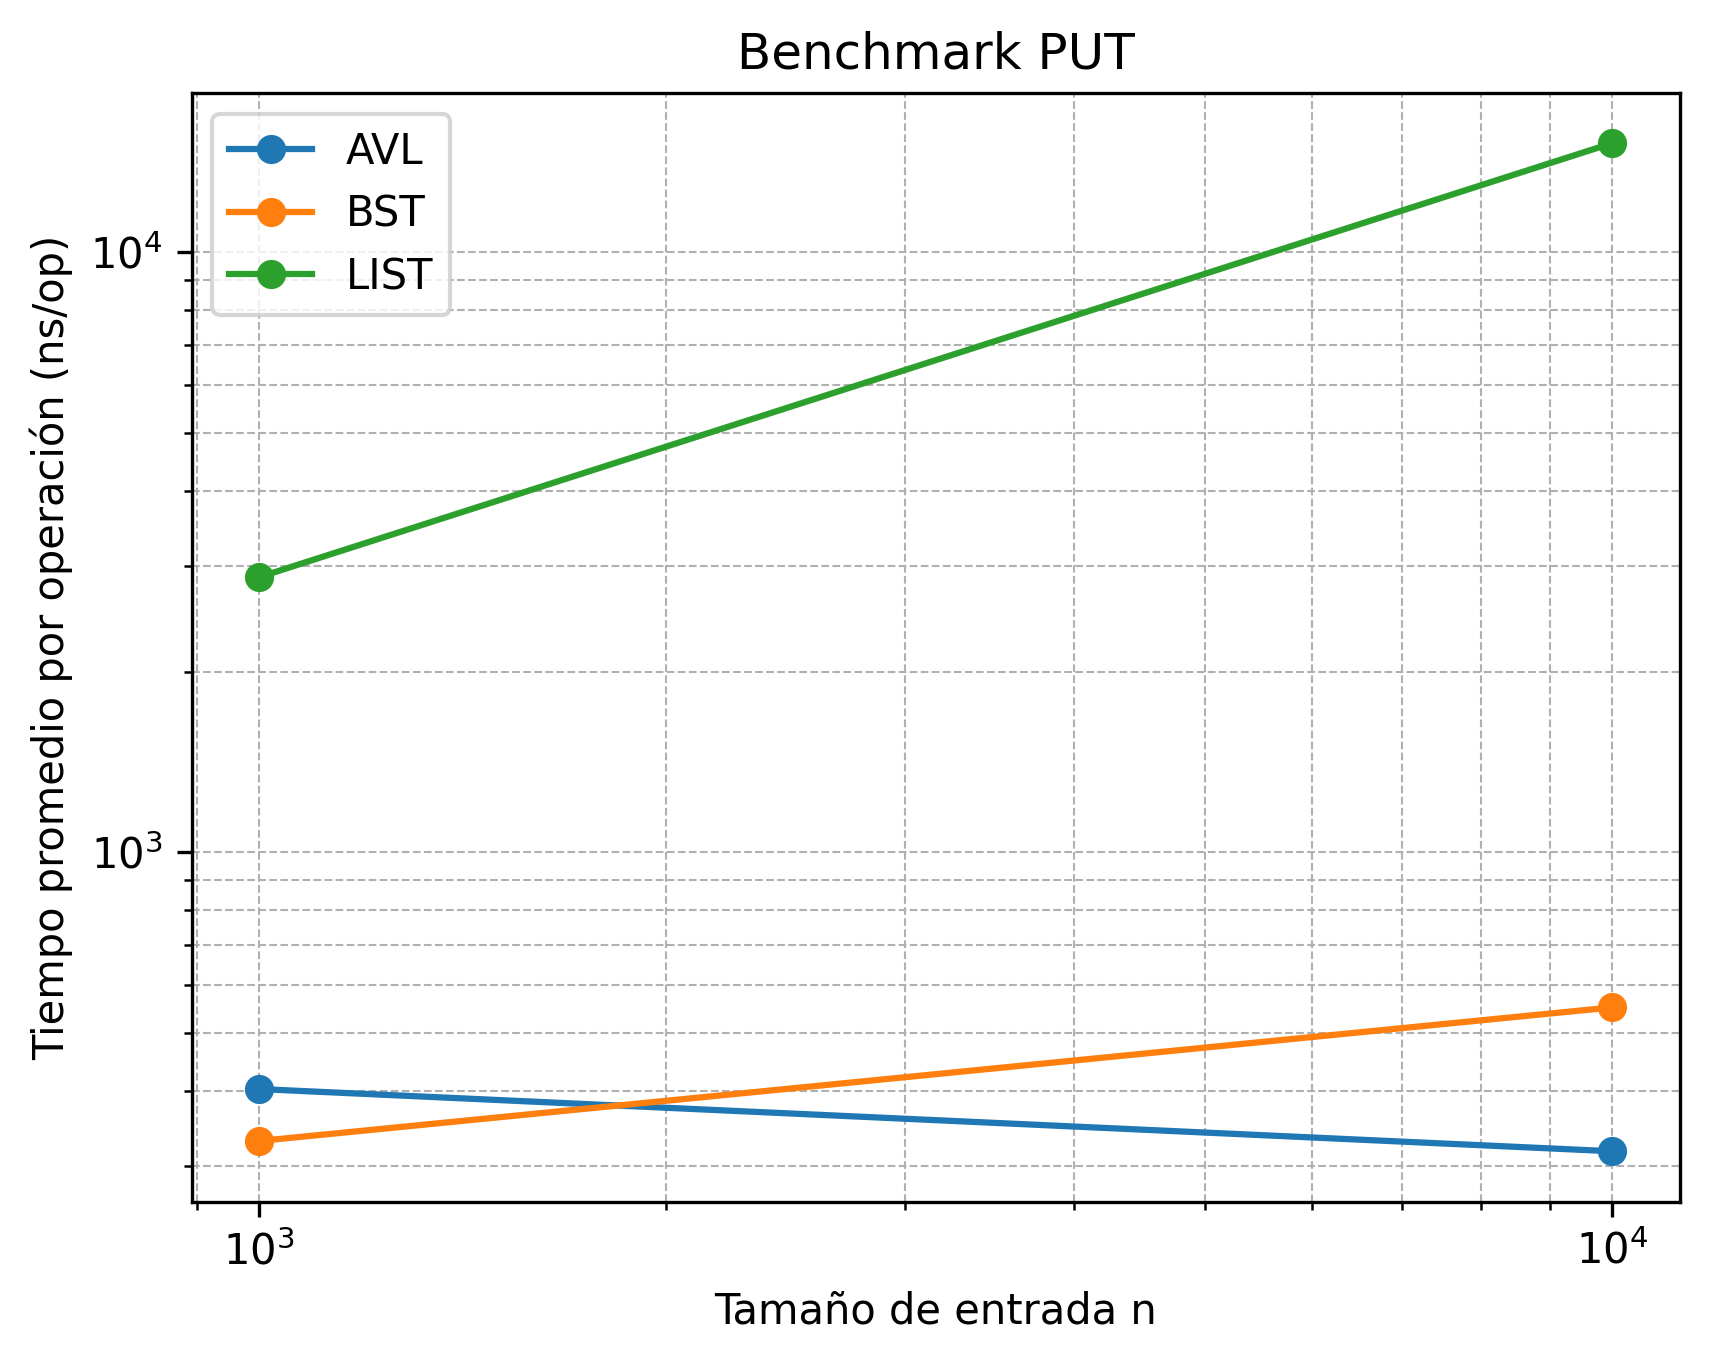
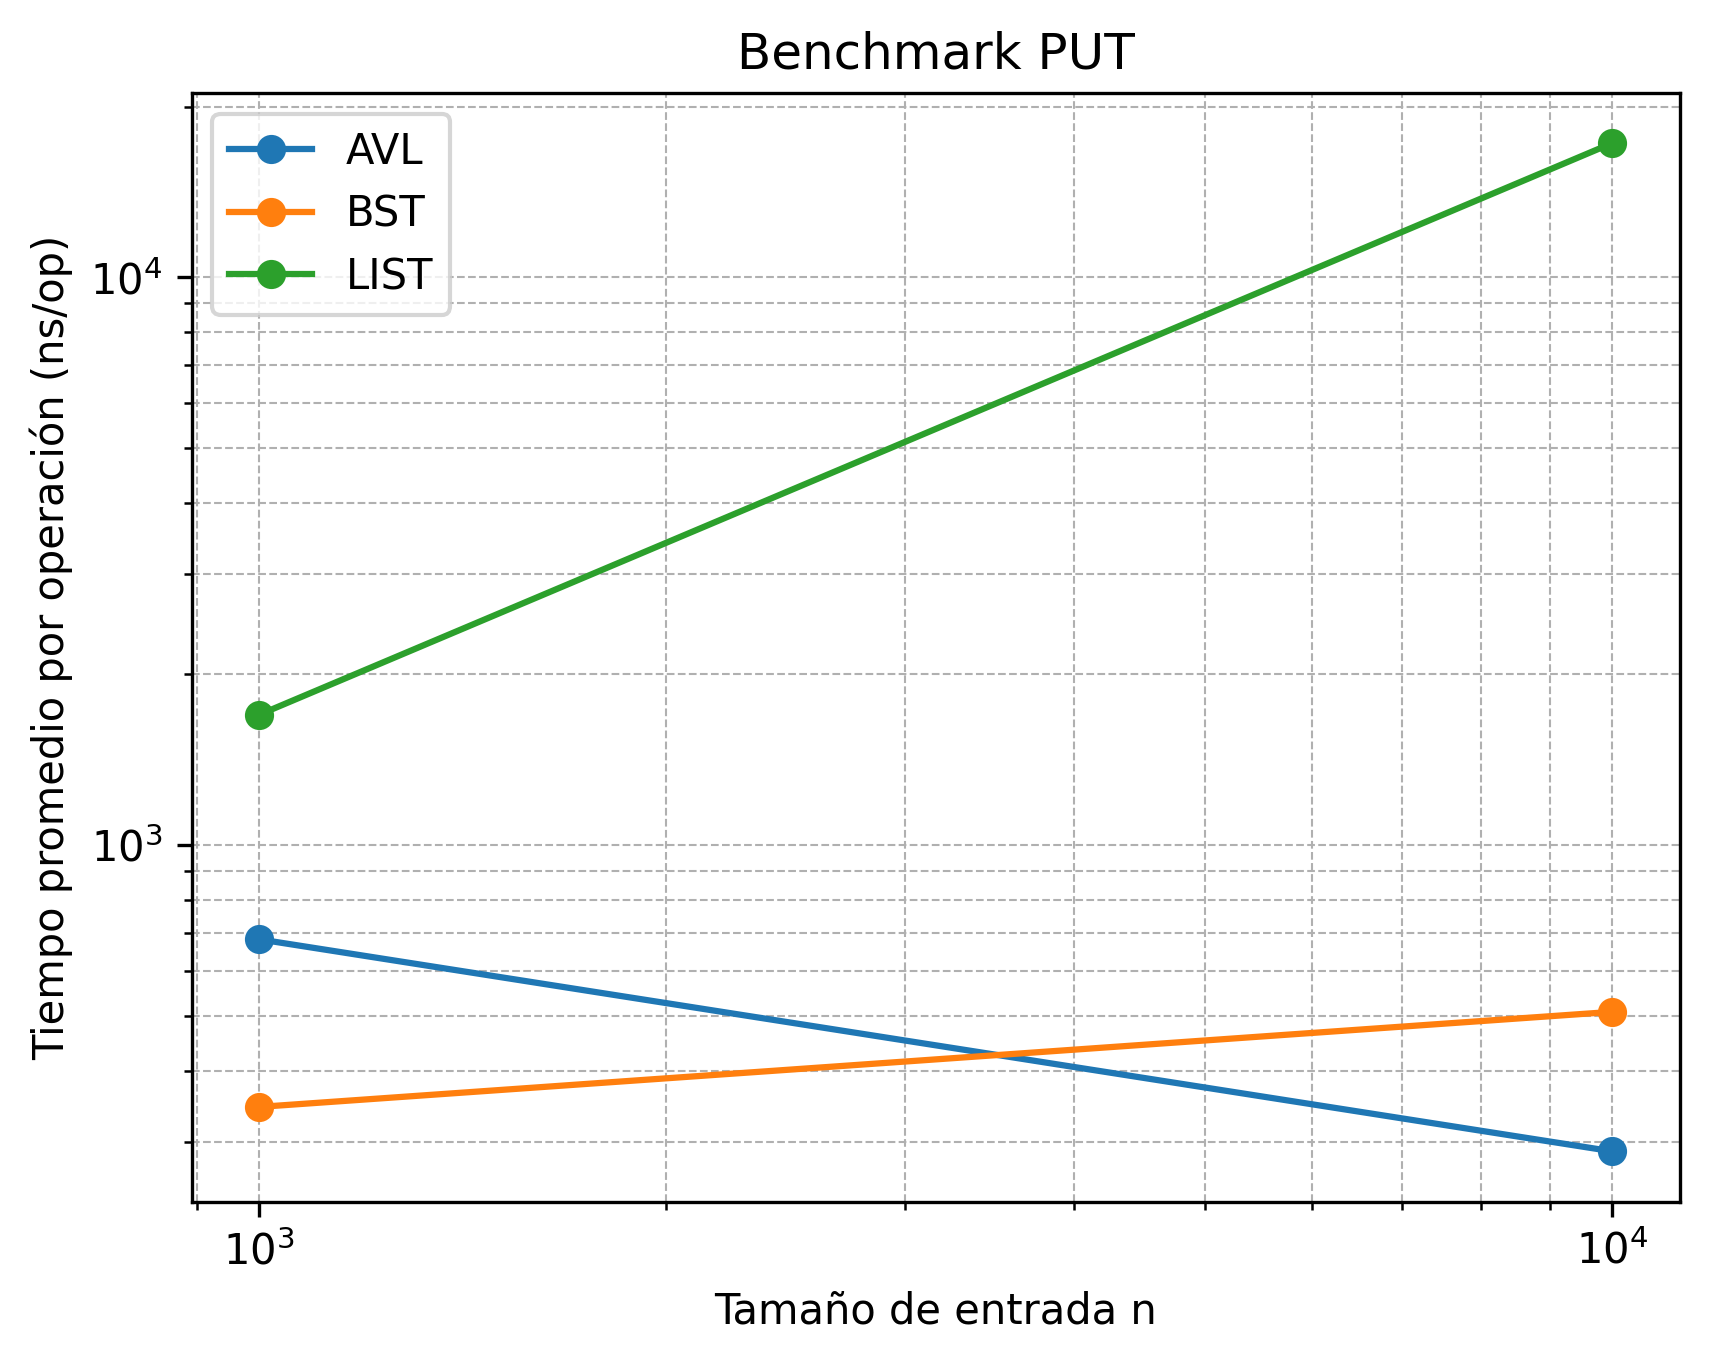
commit final de desarrollo
# Conflicts:
#	data/graphics/get_benchmark.png
#	data/graphics/put_benchmark.png
#	data/graphics/remove_benchmark.png
#	data/results/index_benchmark_quick.csv

diff --git a/src/co/unal/deportesunal/AppMain.java b/src/co/unal/deportesunal/AppMain.java
@@ -6,15 +6,13 @@ import co.unal.deportesunal.persistence.StudentRepository;
 import co.unal.deportesunal.persistence.TxtStudentRepository;
 import co.unal.deportesunal.service.StudentService;
 import co.unal.deportesunal.structure.index.AvlIndex;
-import co.unal.deportesunal.structure.index.BstIndex;
-import co.unal.deportesunal.structure.index.ListStudentIndex;
 import co.unal.deportesunal.structure.index.StudentIndex;
 import co.unal.deportesunal.ui.ConsoleUi;
 
 public class AppMain {
     public static void main(String[] args) {
-        StudentIndex index = new BstIndex();
-        //StudentIndex index = new AvlIndex();
+        //StudentIndex index = new BstIndex();
+        StudentIndex index = new AvlIndex();
         //StudentIndex index = new ListStudentIndex();
         StudentRepository repo = new TxtStudentRepository();
         StudentService studentService= new StudentService(index, repo);

diff --git a/src/co/unal/deportesunal/test/StudentServiceSmokeTest.java b/src/co/unal/deportesunal/test/StudentServiceSmokeTest.java
@@ -7,7 +7,7 @@ import co.unal.deportesunal.persistence.FileConstant;
 import co.unal.deportesunal.persistence.TxtStudentRepository;
 import co.unal.deportesunal.service.StudentService;
 import co.unal.deportesunal.structure.listadt.ListVisitor;
-import co.unal.deportesunal.structure.index.ListStudentIndex;
+import co.unal.deportesunal.structure.index.ListIndex;
 import co.unal.deportesunal.structure.index.StudentIndex;
 
 import java.io.BufferedReader;
@@ -18,7 +18,7 @@ public class StudentServiceSmokeTest {
 
     public static void main(String[] args) throws Exception {
 
-        StudentIndex index = new ListStudentIndex();
+        StudentIndex index = new ListIndex();
         TxtStudentRepository repo = new TxtStudentRepository();
         StudentService service = new StudentService(index, repo);
 
@@ -62,7 +62,7 @@ public class StudentServiceSmokeTest {
         printStudentsTxt();
 
         // 6) Cargar en otro índice (round-trip)
-        StudentIndex index2 = new ListStudentIndex();
+        StudentIndex index2 = new ListIndex();
         StudentService service2 = new StudentService(index2, repo);
         service2.loadFromRepository();
 

diff --git a/src/co/unal/deportesunal/benchmark/factories/ListIndexFactory.java b/src/co/unal/deportesunal/benchmark/factories/ListIndexFactory.java
@@ -1,6 +1,6 @@
 package co.unal.deportesunal.benchmark.factories;
 
-import co.unal.deportesunal.structure.index.ListStudentIndex;
+import co.unal.deportesunal.structure.index.ListIndex;
 import co.unal.deportesunal.structure.index.StudentIndex;
 
 public class ListIndexFactory implements IndexFactory {
@@ -11,6 +11,6 @@ public class ListIndexFactory implements IndexFactory {
 
     @Override
     public StudentIndex create() {
-        return new ListStudentIndex();
+        return new ListIndex();
     }
 }